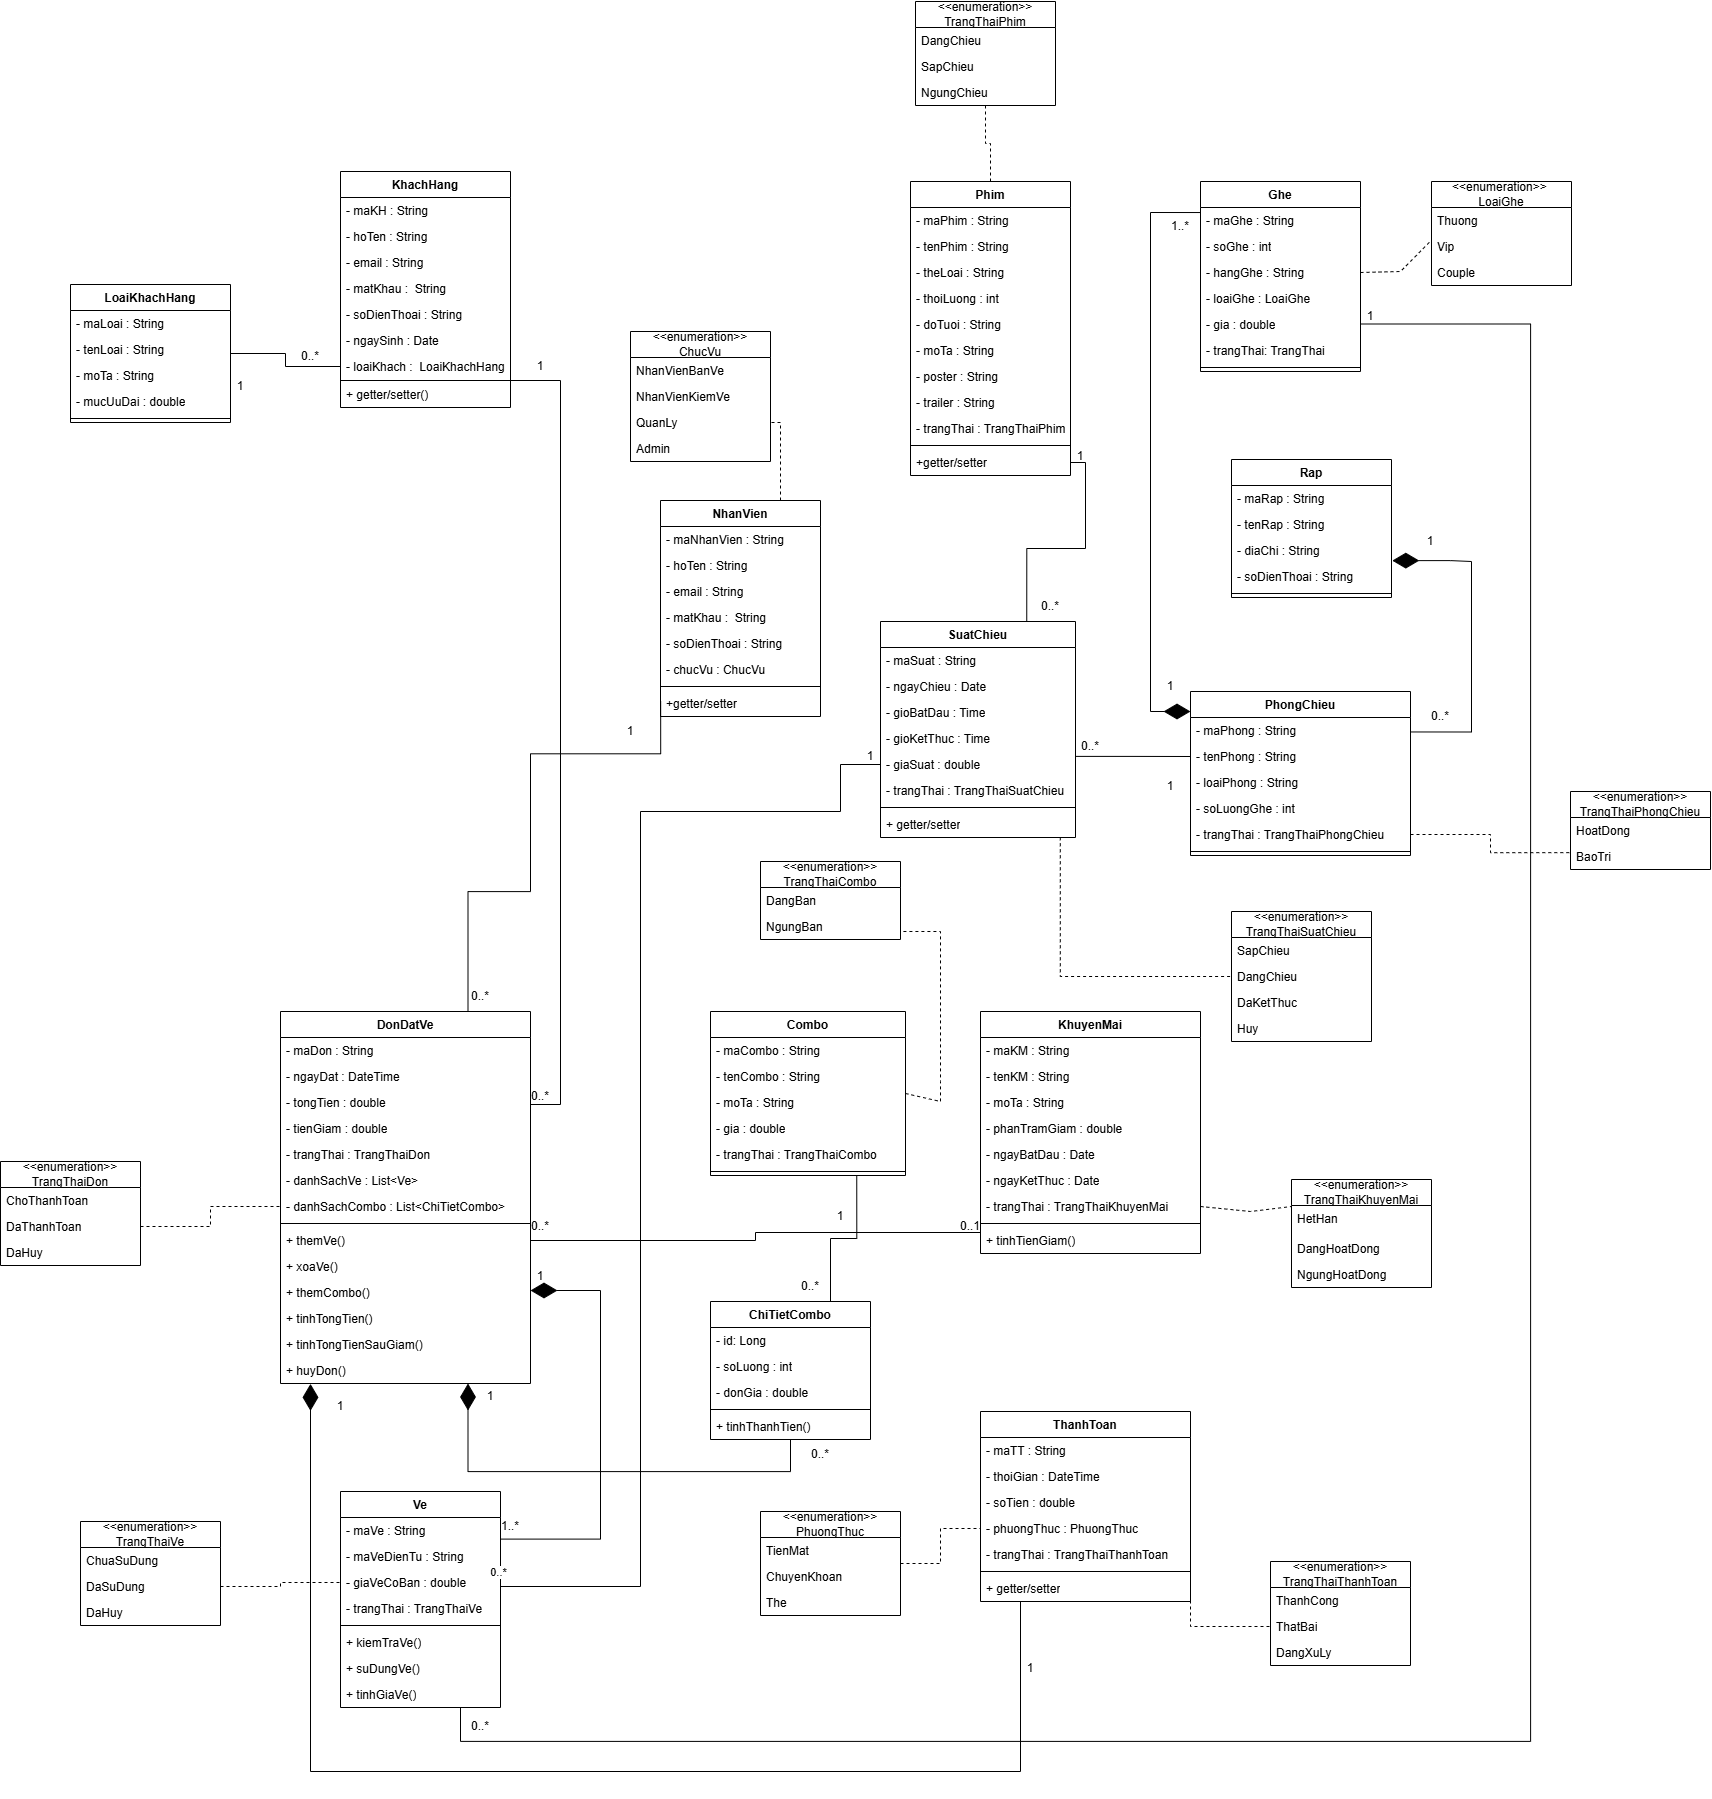
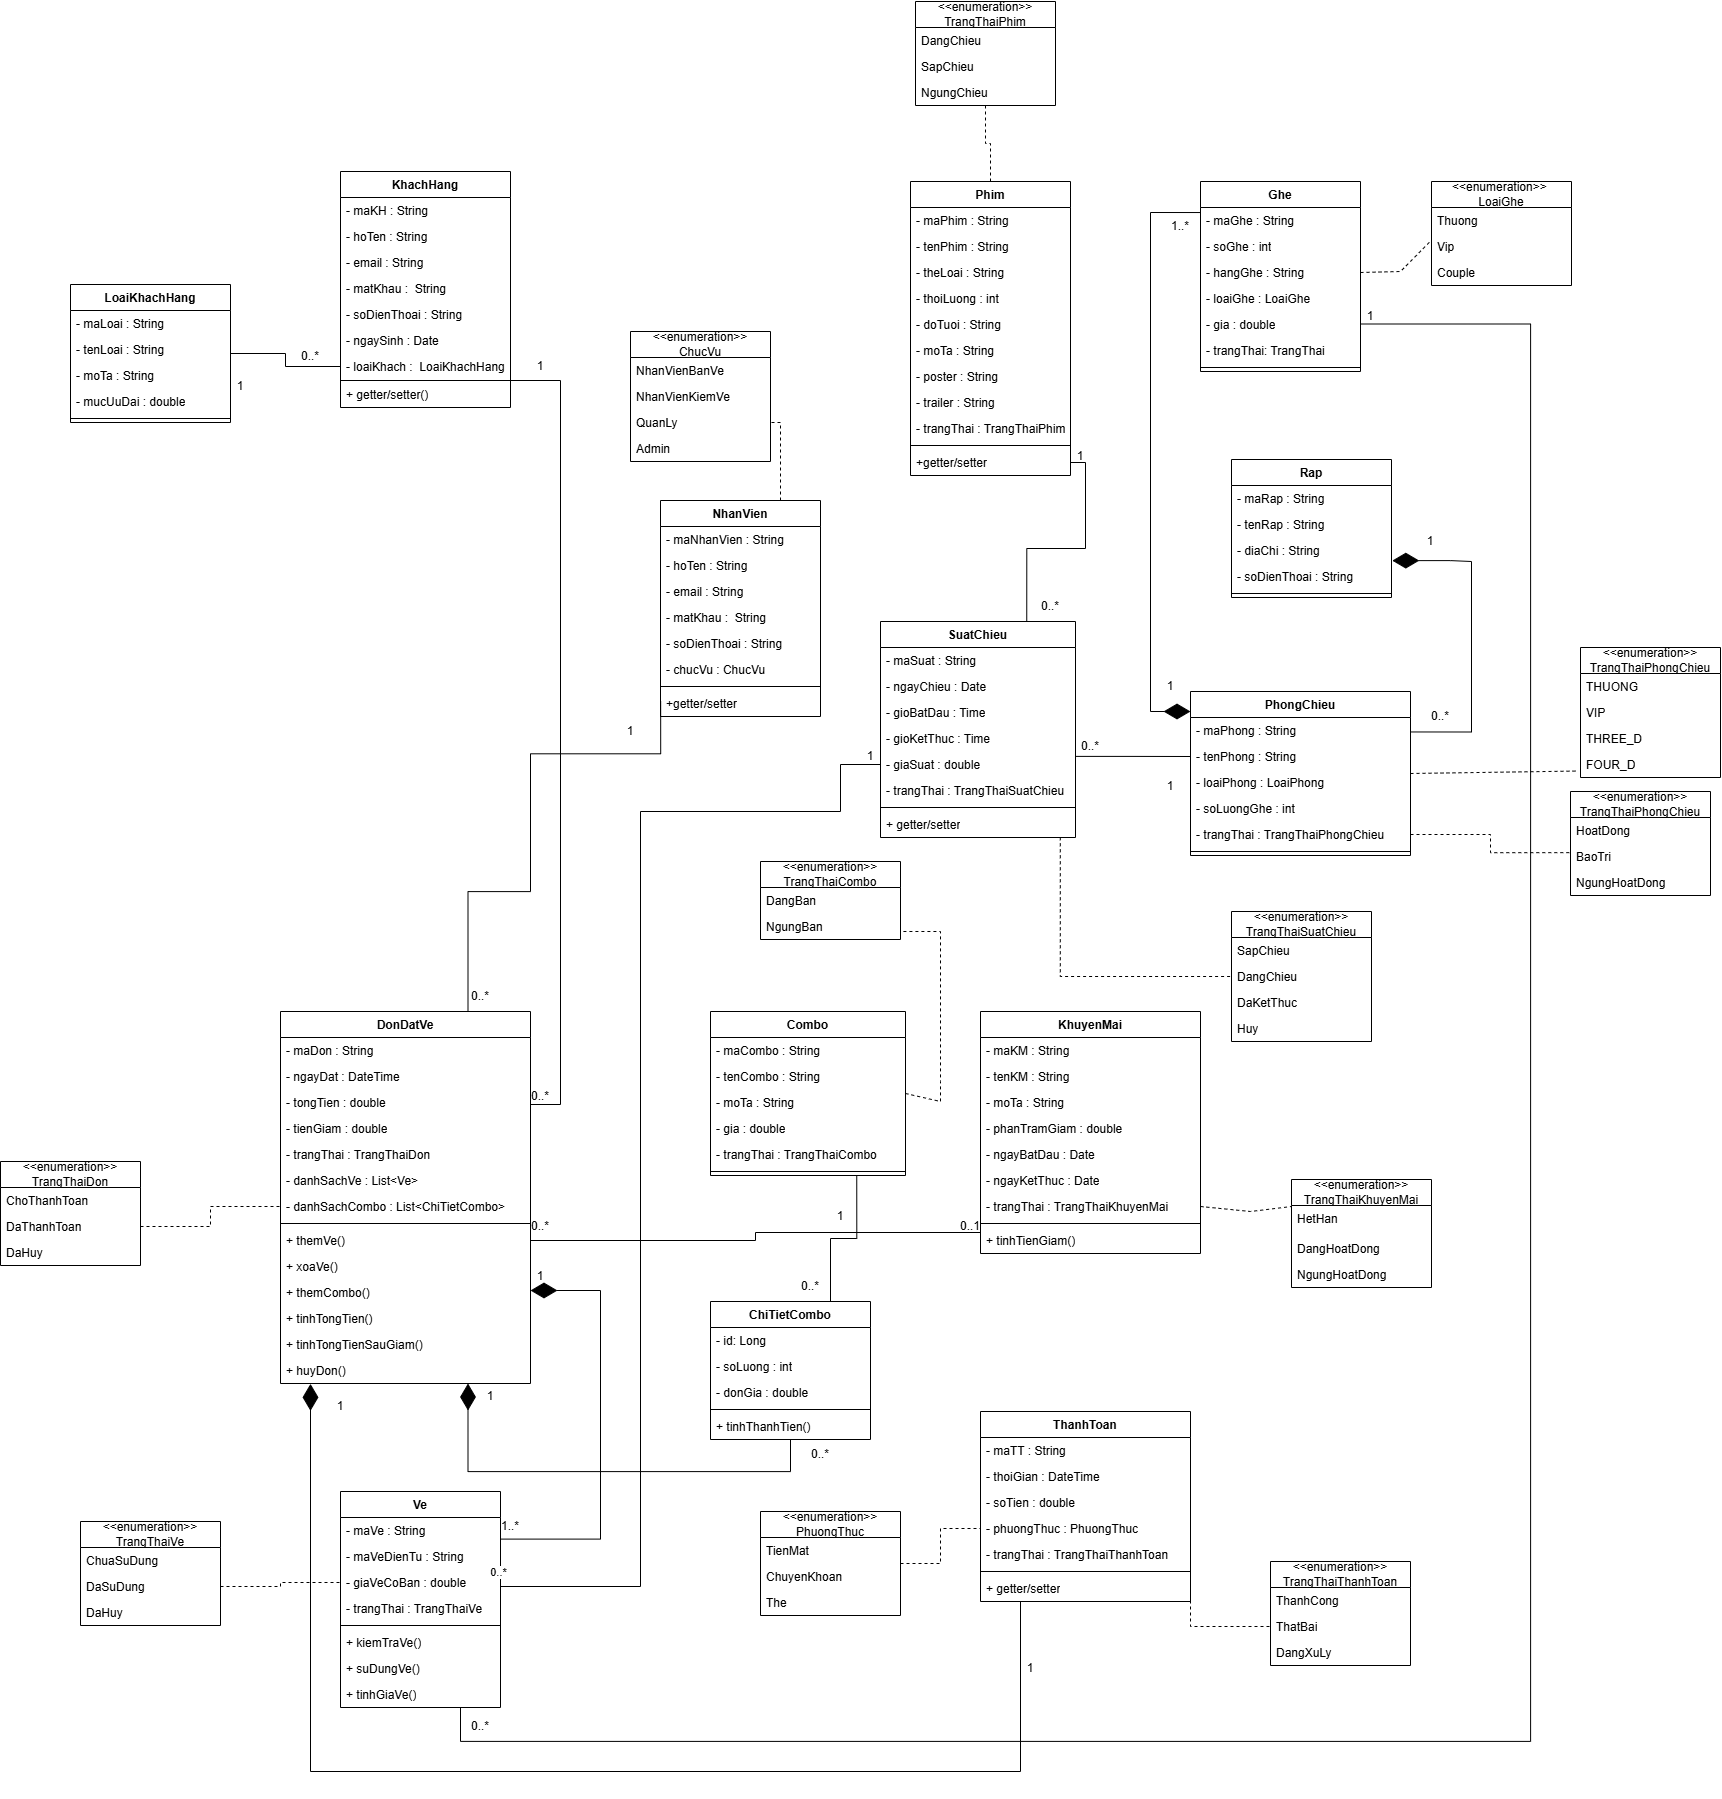
update class diagram

diff --git a/src/main/java/com/example/studentapp/apprapphim/model/entity/KhuyenMai.java b/src/main/java/com/example/studentapp/apprapphim/model/entity/KhuyenMai.java
@@ -1,6 +1,5 @@
 package com.example.studentapp.apprapphim.model.entity;
 
-import com.example.studentapp.apprapphim.model.Enum.LoaiGiam;
 import com.example.studentapp.apprapphim.model.Enum.TrangThaiKhuyenMai;
 import jakarta.persistence.*;
 
